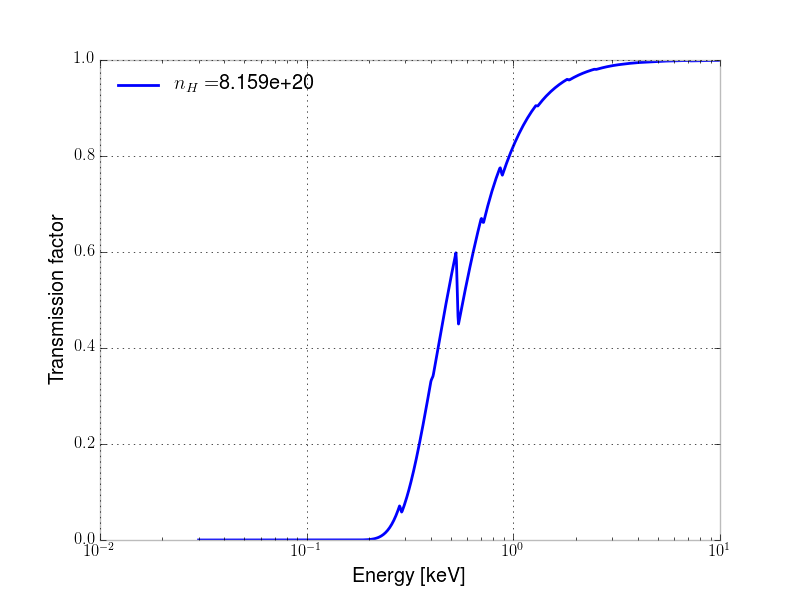
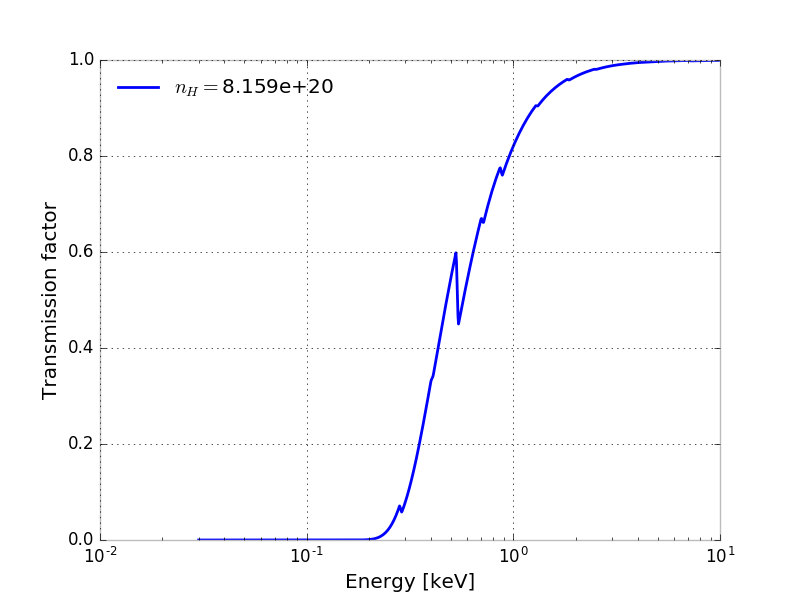
Interstellar absorption put in xpobbsim.

diff --git a/ximpol/srcmodel/spectrum.py b/ximpol/srcmodel/spectrum.py
@@ -23,6 +23,8 @@ from ximpol.core.spline import xInterpolatedUnivariateSplineLinear
 from ximpol.core.spline import xInterpolatedBivariateSplineLinear
 from ximpol.irf.mrf import mdp99, xMDPTable
 from ximpol.utils.units_ import erg2keV
+from ximpol.utils.logging_ import logger
+from ximpol.srcmodel.gabs import xpeInterstellarAbsorptionModel
 
 
 def power_law(C, Gamma):
@@ -128,27 +130,83 @@ class xCountSpectrum(xUnivariateAuxGenerator):
     calculated when a class object is instantiated.
     """
 
-    def __init__(self, source_spectrum, aeff, t, scale=1.):
+    def __init__(self, source_spectrum, aeff, t, column_density=0.,
+                 redshift=0., scale_factor=1.):
         """Constructor.
+
+        Arguments
+        ---------
+        source_spectrum : a Python function
+            The source spectrum, i.e., a Python function that can be called
+            with two numpy arrays E and t and returns the differential energy
+            spectrum of the source at the appropriate enenrgy and time value(s).
+
+        aeff : ximpol.irf.xEffectiveArea instance
+            The instrument effective area.
+        
+        t : array
+            The array of time values where we're sampling the light curve of the
+            source.
+
+        column_density : float, defaults to 0.
+            The H column density to calculate the insterstellar absorption.
+
+        redshift : float, defaults to 0.
+            The source redshift.
+
+        scale_factor : float, defaults to 1.
+            An optional scale factor for the output count spectrum (see the
+            warning below).
 
         Warning
         -------
-        Do we really want the option to pass a scale here?
         This was a workaround for running the MDP script on a pulsar,
         where we sample in phase and then have to multiply by the
-        number of periods.
+        observation time.
         """
-        fmt = dict(auxname='Time', auxunits='s', rvname='Energy',
-                   rvunits='keV',  pdfname='dN/dE $\\times$ aeff',
-                   pdfunits='s$^{-1}$ keV$^{-1}$')
 
         def _pdf(E, t):
             """Return the convolution between the effective area and
             the input photon spectrum.
-            """
-            return scale*source_spectrum(E, t)*numpy.tile(aeff(E[0]),
-                                                          (t.shape[0], 1))
 
+            Note that, due the way this callable is used within the constructor
+            of xUnivariateAuxGenerator at this point E and t are two numpy
+            arrays whose shape is `(num_time_samples, num_energy_samples)`.
+            Particularly, `E[0]` is the array of energy values that we use for
+            sampling the spectrum (nominally the same sampling that we use
+            for the effective area).
+
+            We start from all the stuff that is energy-independent, e.g., the
+            effective area and the interstellar absorption and do the proper
+            convolutions in energy space. Then we tile the values horizontally
+            for as many times as the length of the array sampling the time,
+            and at the end we multiply the resulting bidimensional array by
+            an equal-size array containing the value of the differential
+            energy spectrum on the time-energy grid.
+            """
+            # Grab the one-dimensional array used to sample the energy.
+            _energy = E[0]
+            # Calculate the effective area on the array.
+            _vals = aeff(_energy)
+            # Multiply by the scale factor.
+            _vals *= scale_factor
+            # If needed, fold in the transmission factor for the interstellar
+            # absorption.
+            if column_density > 0.:
+                logger.info('Applying interstellar absorption (nH = %.3e)' %\
+                            column_density)
+                ism_model = xpeInterstellarAbsorptionModel()
+                ism_trans = ism_model.transmission_factor(column_density)
+                _vals *= ism_trans(_energy)
+            # Tile the one dimensional vector horizontally.
+            _vals = numpy.tile(_vals, (t.shape[0], 1))
+            # And multiply by the source spectrum---we're done.
+            _vals *= source_spectrum(E, t)
+            return _vals
+
+        fmt = dict(auxname='Time', auxunits='s', rvname='Energy',
+                   rvunits='keV',  pdfname='dN/dE $\\times$ aeff',
+                   pdfunits='s$^{-1}$ keV$^{-1}$')
         xUnivariateAuxGenerator.__init__(self, t, aeff.x, _pdf, **fmt)
         self.light_curve = self.build_light_curve()
 

diff --git a/ximpol/test/test_sensitivity_calculator.py b/ximpol/test/test_sensitivity_calculator.py
@@ -27,6 +27,7 @@ from ximpol.srcmodel.spectrum import int_eflux2pl_norm
 from ximpol.utils.units_ import keV2erg
 from ximpol.core.spline import xInterpolatedUnivariateSplineLinear
 from ximpol.irf import load_arf, load_mrf
+from ximpol.srcmodel.gabs import xpeInterstellarAbsorptionModel
 
 
 """The calculator ouputs have been obtained running by hand the code on the web
@@ -43,7 +44,11 @@ web form.
 """
 SENSITIVITY_CALCULATOR_OUTPUT = [
     (0.1, 1., 10., 0.1, [0.04022, 0.06668, 0.14058]),
-    (0.1, 2., 10., 0.1, [0.03293, 0.06927, 0.17443])
+    (0.1, 2., 10., 0.1, [0.03293, 0.06927, 0.17443]),
+    (1. , 1., 10., 0.1, [0.04191, 0.06579, 0.13706]),
+    (1. , 2., 10., 0.1, [0.03400, 0.06729, 0.16716]),
+    (10., 1., 10., 0.1, [0.06228, 0.06348, 0.11810]),
+    (10., 2., 10., 0.1, [0.04880, 0.06013, 0.13230])
 ]
 
 
@@ -63,16 +68,29 @@ class TestSensitivityCalculator(unittest.TestCase):
         cls.emin = 2.
         cls.emax = 8.
         cls.ebinning = numpy.linspace(cls.emin, cls.emax, 4)
+        cls.ism_model = xpeInterstellarAbsorptionModel()
 
-    def mdp_table(self, column_density, index, exposure_time, flux):
+    def mdp_table(self, column_density, index, exposure_time, eflux):
         """Return the MDP table for a point source with a power-law
         spectral shape with a given set of parameters and for a given
         observation time.
+
+        There's a slight complication, here, due to the fact that the
+        sensitivity calculator is rescaling the absorbed fluxes so that the
+        input energy flux (in the web form) is that at the observer instead of
+        that at the source. Therefore we need to do the same here.
         """
-        norm = int_eflux2pl_norm(flux, self.emin, self.emax, index, erg=True)
-        energy_spectrum = power_law(norm, index)
         tsamples = numpy.linspace(0., exposure_time, 2)
-        count_spectrum = xCountSpectrum(energy_spectrum, self.aeff, tsamples)
+        norm = int_eflux2pl_norm(eflux, self.emin, self.emax, index, erg=True)
+        energy_spectrum = power_law(norm, index)
+        ism_trans = self.ism_model.transmission_factor(column_density)
+        _x = numpy.linspace(self.emin, self.emax, 1000)
+        _y = _x*energy_spectrum(_x, 0.)*ism_trans(_x)
+        absorbed_energy_spectrum = xInterpolatedUnivariateSplineLinear(_x, _y)
+        absorbed_eflux = keV2erg(absorbed_energy_spectrum.norm())
+        scale = eflux/absorbed_eflux
+        count_spectrum = xCountSpectrum(energy_spectrum, self.aeff, tsamples,
+                                        column_density, scale_factor=scale)
         mdp_table = count_spectrum.build_mdp_table(self.ebinning, self.modf)
         return mdp_table
 
@@ -80,20 +98,24 @@ class TestSensitivityCalculator(unittest.TestCase):
         """Compare the MDP calculated by ximpol with that returned by the
         sensitivity calculator.
         """
-        for column_density, index, exposure_time, flux, target_mdps in\
+        for column_density, index, exposure_time, eflux, target_mdps in\
             SENSITIVITY_CALCULATOR_OUTPUT:
             # Convert the source parameters to physical units.
             column_density *= 1.e22
             exposure_time *= 1000.
-            flux *= 1.e-8
+            eflux *= 1.e-8
             # Calculate the MDP table using the ximpol facilities.
-            table = self.mdp_table(column_density, index, exposure_time, flux)
+            table = self.mdp_table(column_density, index, exposure_time, eflux)
             ximpol_mdps = table.mdp_values()[:-1]
             target_mdps = numpy.array(target_mdps)
             ximpol_mdps = numpy.array(ximpol_mdps)
             delta = abs(target_mdps - ximpol_mdps)/target_mdps
             max_delta = delta.max()
-            self.assertTrue(max_delta < 0.05, 'max. diff. %.4f' % max_delta)
+            err_msg = 'max. diff. %.4f (nH = %.3e, index = %.2f)' %\
+                      (max_delta, column_density, index)
+            err_msg += '\nximpol: %s\nsensitivity calculator: %s' %\
+                       (ximpol_mdps, target_mdps)
+            self.assertTrue(max_delta < 0.03, err_msg)
         
 
 

diff --git a/ximpol/srcmodel/roi.py b/ximpol/srcmodel/roi.py
@@ -213,7 +213,9 @@ class xModelComponentBase:
         event_list = xMonteCarloEventList()
         tsamples = self.sampling_time(kwargs['tstart'], kwargs['tstop'])
         logger.info('Sampling times: %s' % tsamples)
-        count_spectrum = xCountSpectrum(self.energy_spectrum, aeff, tsamples)
+        count_spectrum = xCountSpectrum(self.energy_spectrum, aeff, tsamples,
+                                        column_density=self.column_density,
+                                        redshift=self.redshift)
         # Extract the number of events to be generated based on the integral
         # of the light curve over the simulation time.
         num_events = numpy.random.poisson(count_spectrum.light_curve.norm())
@@ -375,7 +377,9 @@ class xPeriodicPointSource(xPointSource):
         # Mind the count spectrum is made in phase!
         sampling_phase = numpy.linspace(0., 1., 100)
         count_spectrum = xCountSpectrum(self.energy_spectrum, aeff,
-                                        sampling_phase)
+                                        sampling_phase,
+                                        column_density=self.column_density,
+                                        redshift=self.redshift)
         # All this is not properly taking into account the ephemeris.
         min_time = kwargs['tstart']
         max_time = kwargs['tstop']

diff --git a/ximpol/bin/xpmdp.py b/ximpol/bin/xpmdp.py
@@ -140,11 +140,15 @@ def xpmdp(**kwargs):
         psamples = numpy.linspace(kwargs['phasemin'], kwargs['phasemax'], 100)
         logger.info('Sampling phases: %s' % psamples)
         count_spectrum = xCountSpectrum(source.energy_spectrum, aeff, psamples,
-                                        scale=observation_time)
+                                        scale_factor=observation_time,
+                                        column_density=source.column_density,
+                                        redshift=source.redshift)
     else:
         tsamples = source.sampling_time(kwargs['tstart'], kwargs['tstop'])
         logger.info('Sampling times: %s' % tsamples)
-        count_spectrum = xCountSpectrum(source.energy_spectrum, aeff, tsamples)
+        count_spectrum = xCountSpectrum(source.energy_spectrum, aeff, tsamples,
+                                        column_density=source.column_density,
+                                        redshift=source.redshift)
 
     # Do the actual work.
     ebinning =_make_energy_binning(**kwargs)

diff --git a/ximpol/bin/xpobssim.py b/ximpol/bin/xpobssim.py
@@ -30,7 +30,6 @@ from ximpol.utils.profile import xChrono
 from ximpol.utils.os_ import mkdir
 from ximpol.utils.logging_ import logger, startmsg
 from ximpol import XIMPOL_IRF, XIMPOL_DATA
-from ximpol.srcmodel.spectrum import xCountSpectrum
 
 
 """Command-line switches.

diff --git a/ximpol/srcmodel/gabs.py b/ximpol/srcmodel/gabs.py
@@ -89,7 +89,7 @@ class xpeInterstellarAbsorptionModel:
     >>> trans.plot()
     """
 
-    def __init__(self, num_samples=250):
+    def __init__(self, num_samples=1000):
         """Constructor.
 
         Arguments
